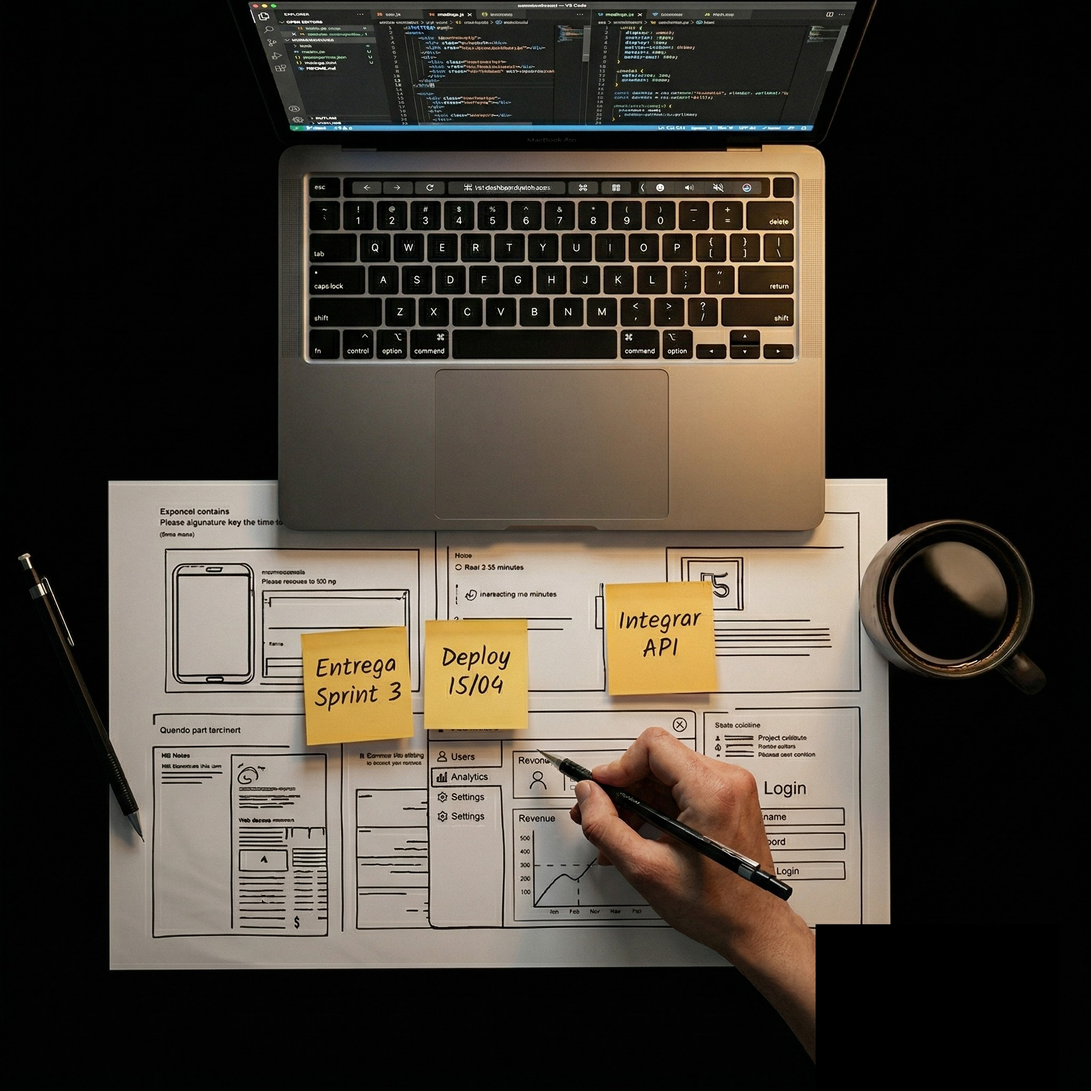
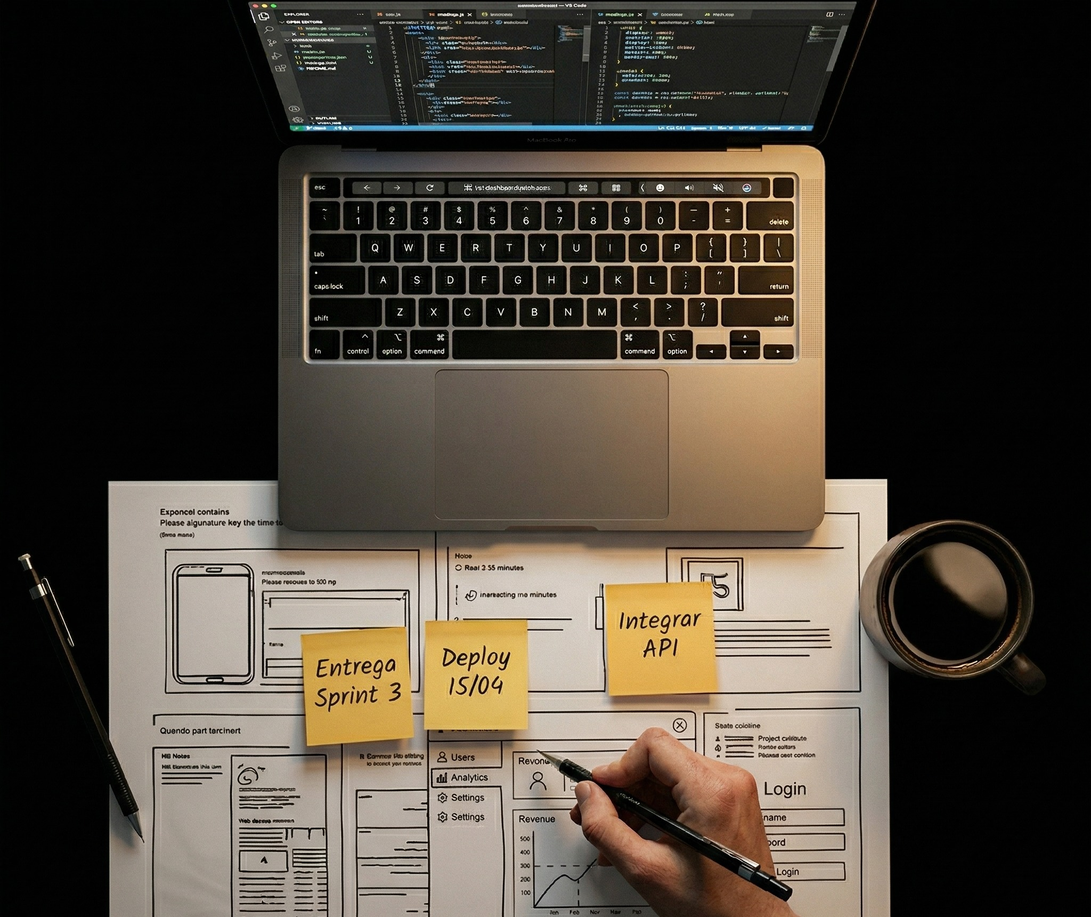
Corrige imagem Sobre: crop da marca d'água e remove borda do container
Substituição de paint-over por crop real (remove 15% inferior com watermark).
Remove border, background e box-shadow do container .sobre-imagem.

diff --git a/style.css b/style.css
@@ -659,14 +659,12 @@ nav {
 
 .sobre-imagem {
     flex: 1;
-    background: linear-gradient(135deg, #111111 0%, #000000 100%);
-    border: 1px solid var(--border-color);
     border-radius: 12px;
     min-height: 400px;
     display: flex;
     align-items: center;
     justify-content: center;
-    box-shadow: inset 0 0 20px rgba(255,255,255,0.02);
+    overflow: hidden;
 }
 
 .sobre-imagem img {
